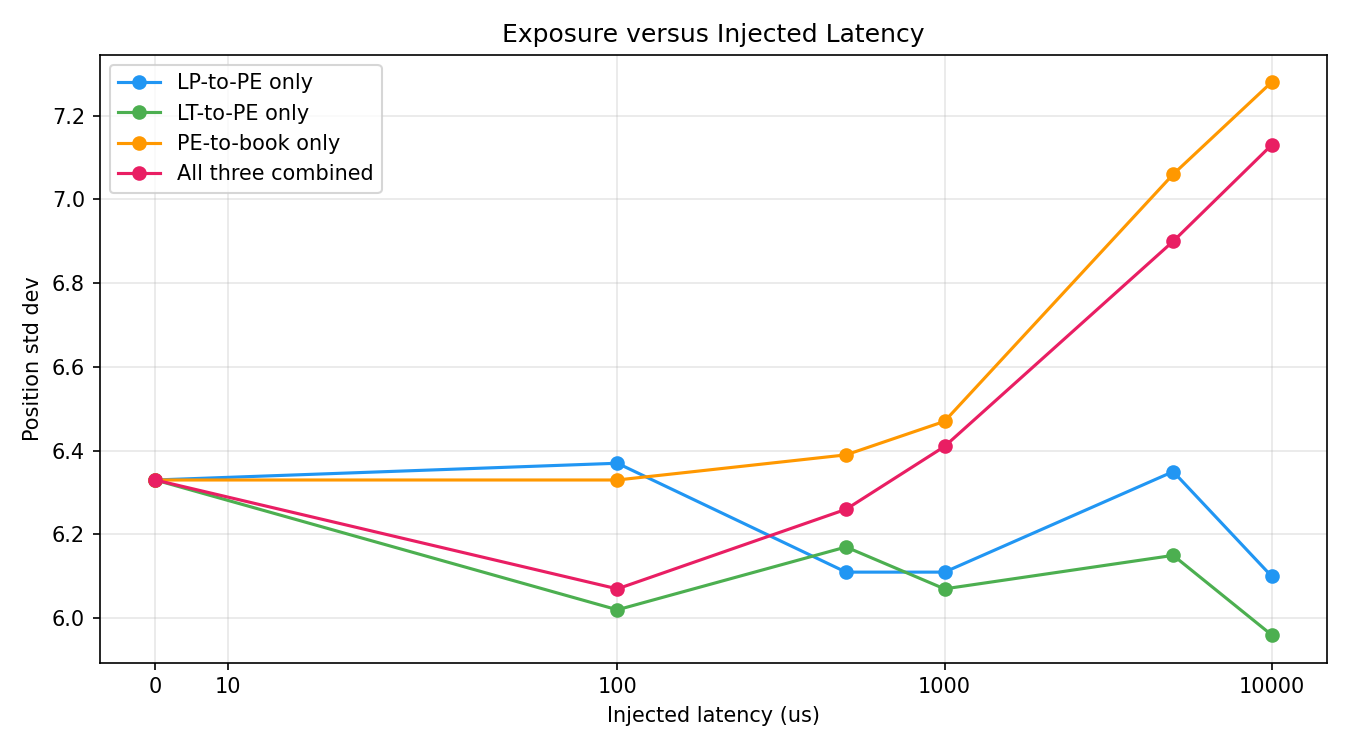
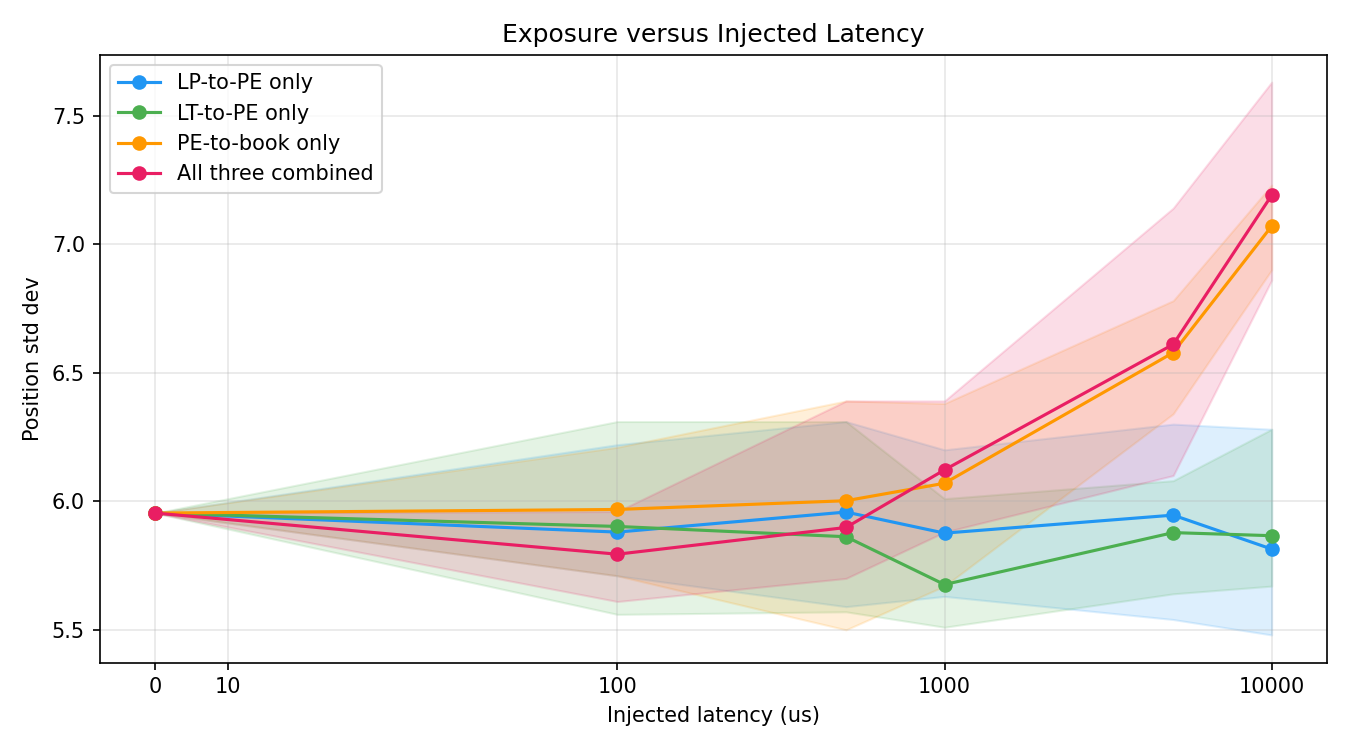
Updated benchmarks and latency study with multi-seed runs

diff --git a/scripts/plot_latency_results.py b/scripts/plot_latency_results.py
@@ -1,8 +1,8 @@
 #!/usr/bin/env python3
-import pandas as pd
-import matplotlib.pyplot as plt
-import matplotlib.ticker as ticker
-import numpy as np
+import pandas as pd # type: ignore
+import matplotlib.pyplot as plt # type: ignore
+import matplotlib.ticker as ticker # type: ignore
+import numpy as np # type: ignore
 
 CSV = "docs/latency_results.csv"
 df = pd.read_csv(CSV)
@@ -23,22 +23,31 @@ def get_series(run_set, metric):
 
 def plot_metric(metric, ylabel, title, filename):
     fig, ax = plt.subplots(figsize=(9, 5))
-    baseline = df[df.run_set == "baseline"][metric].values[0]
+
+    # baseline: mean across seeds
+    baseline_rows = df[df.run_set == "baseline"]
+    baseline = baseline_rows[metric].mean()
 
     for (run_set, label), color in zip(SETS.items(), COLORS):
         rows = df[df.run_set == run_set].copy()
-        # use the varying latency column for x-axis
+
         if run_set == "lt_only":
-            rows = rows.sort_values("lt_to_pe_latency_us")
-            xs = [0] + list(rows["lt_to_pe_latency_us"].values)
+            lat_col = "lt_to_pe_latency_us"
         elif run_set == "pe_only":
-            rows = rows.sort_values("pe_to_book_latency_us")
-            xs = [0] + list(rows["pe_to_book_latency_us"].values)
+            lat_col = "pe_to_book_latency_us"
         else:
-            rows = rows.sort_values("lp_to_pe_latency_us")
-            xs = [0] + list(rows["lp_to_pe_latency_us"].values)
-        ys = [baseline] + list(rows[metric].values)
-        ax.plot(xs, ys, marker="o", label=label, color=color)
+            lat_col = "lp_to_pe_latency_us"
+
+        grouped = rows.groupby(lat_col)[metric].agg(["mean", "min", "max"]).reset_index()
+        grouped = grouped.sort_values(lat_col)
+
+        xs   = [0] + list(grouped[lat_col].values)
+        mean = [baseline] + list(grouped["mean"].values)
+        lo   = [baseline] + list(grouped["min"].values)
+        hi   = [baseline] + list(grouped["max"].values)
+
+        ax.plot(xs, mean, marker="o", label=label, color=color)
+        ax.fill_between(xs, lo, hi, alpha=0.15, color=color)
 
     ax.set_xscale("symlog", linthresh=50)
     ax.set_xlabel("Injected latency (us)")

diff --git a/dashboard/app.py b/dashboard/app.py
@@ -1,8 +1,8 @@
 import time
-import streamlit as st
-import plotly.graph_objects as go
+import streamlit as st # type: ignore
+import plotly.graph_objects as go # type: ignore
 from data_source import DataSource
-import streamlit.components.v1 as components
+import streamlit.components.v1 as components # type: ignore
 import os
 
 st.set_page_config(

diff --git a/BENCHMARKS.md b/BENCHMARKS.md
@@ -22,8 +22,8 @@ Target: 14,000 events/s (12,000 LP + 1,000 SG + 1,000 LT).
 
 | Metric | Native (M4) | Docker (linux/amd64) |
 |---|---|---|
-| Sustained throughput | 14,511 events/s | 14,139 events/s |
-| Peak throughput (1s window) | 14,672 events/s | 14,224 events/s |
+| Sustained throughput | 14,508 events/s | 14,139 events/s |
+| Peak throughput (1s window) | 14,695 events/s | 14,224 events/s |
 | Queue overflow events | 0 | 0 |
 
 Engine sustains above-target throughput in both environments with no queue overflow. The ~2.5% drop in Docker is Rosetta overhead. In both cases the bottleneck is the producers, not the consumer. At default load (6,150 events/s), there is significant headroom before the consumer saturates.
@@ -36,13 +36,15 @@ Percentiles explained: p50 is the median, half of events are faster than this. p
 
 | Metric | Native (M4) | Docker (linux/amd64) |
 |---|---|---|
-| p50 | 167 ns | 167 ns |
-| p99 | 375 ns | 1,875 ns |
-| p99.9 | 3,125 ns | 4,666 ns |
-| max | 10,375 ns | 22,958 ns |
+| p50 | 208 ns | 167 ns |
+| p99 | ~3,000 ns* | 1,875 ns |
+| p99.9 | unstable* | 4,666 ns |
+| max | unstable* | 22,958 ns |
 | Sample size | ~2,048 | ~2,048 |
 
-p50 is identical in both environments. The hot path cost is fixed: SPSC drain, consolidated book update, pricing logic, inventory skew. That comes to 167 ns regardless of platform. The p99 and tail diverge because macOS and Rosetta do not offer real-time scheduling. These spikes are OS preemption, not hot-path regressions. On a Linux host with `taskset` the tail would tighten.
+*Across 5 runs, p50 was stable (167-291 ns). p99 was sub-3.2us on 3 of 5 runs; the other two spiked to 100-145us. p99.9 ranged from 7.9us to 322us. This is OS scheduler preemption, not engine variance. macOS provides no real-time scheduling primitive equivalent to Linux's `chrt`. On a Linux host with `taskset` and `chrt -f`, the tail would tighten significantly. The p50 is the only stable number on this machine.
+
+p50 is the number that reflects the engine. The hot path is: SPSC drain, consolidated book update, pricing logic, inventory skew. That consistently comes out around 200 ns. Everything past p99 is the OS occasionally deciding something else matters more. Docker numbers are cleaner at the tail because the workload isolation inside the container happens to reduce scheduling interference on this machine.
 
 ## Reproduction
 

diff --git a/LATENCY_STUDY.md b/LATENCY_STUDY.md
@@ -20,7 +20,7 @@ Before running the sweep:
 
 ## Methodology
 
-21 runs across four sets: baseline (all latencies at 0), LP-to-PE only, LT-to-PE only, PE-to-book only, all three combined. Latency values: 0, 100, 500, 1000, 5000, 10000 us. Each run: 60 seconds, seed 42, default load (12 LP x 500 Hz, SG 100 Hz, LT 50 Hz). Only latency varies.
+105 runs across four sets: baseline (all latencies at 0), LP-to-PE only, LT-to-PE only, PE-to-book only, all three combined. Latency values: 0, 100, 500, 1000, 5000, 10000 us. Each cell ran 5 times with seeds 42-46, 30 seconds per run. Lines in the plots show mean across seeds; shaded bands show min to max. Only latency varies between runs.
 
 ## Results
 
@@ -56,7 +56,7 @@ The main result: PE-to-book latency is the most damaging link in this simulation
 
 ## Limitations
 
-- Single seed (42). Run-to-run variance is not quantified. Some of the noise in the LP-to-PE and LT-to-PE results may be single-path artifacts.
+- S- 30 seconds per run with 5 seeds. Run-to-run variance is visible in the bands, particularly for PnL and fill rate. The PE-to-book and combined exposure results are tight enough to be reliable; the LP-to-PE PnL signal is not.
 - Single machine. Numbers are not portable across CPUs.
 - The LT has no adverse selection logic. This is the largest gap between this simulation and real market behaviour. It masks the expected LP-to-PE degradation entirely.
 - LP prices follow a deterministic random walk with no correlation to signal. Spread capture at zero latency is path variance, not edge.
